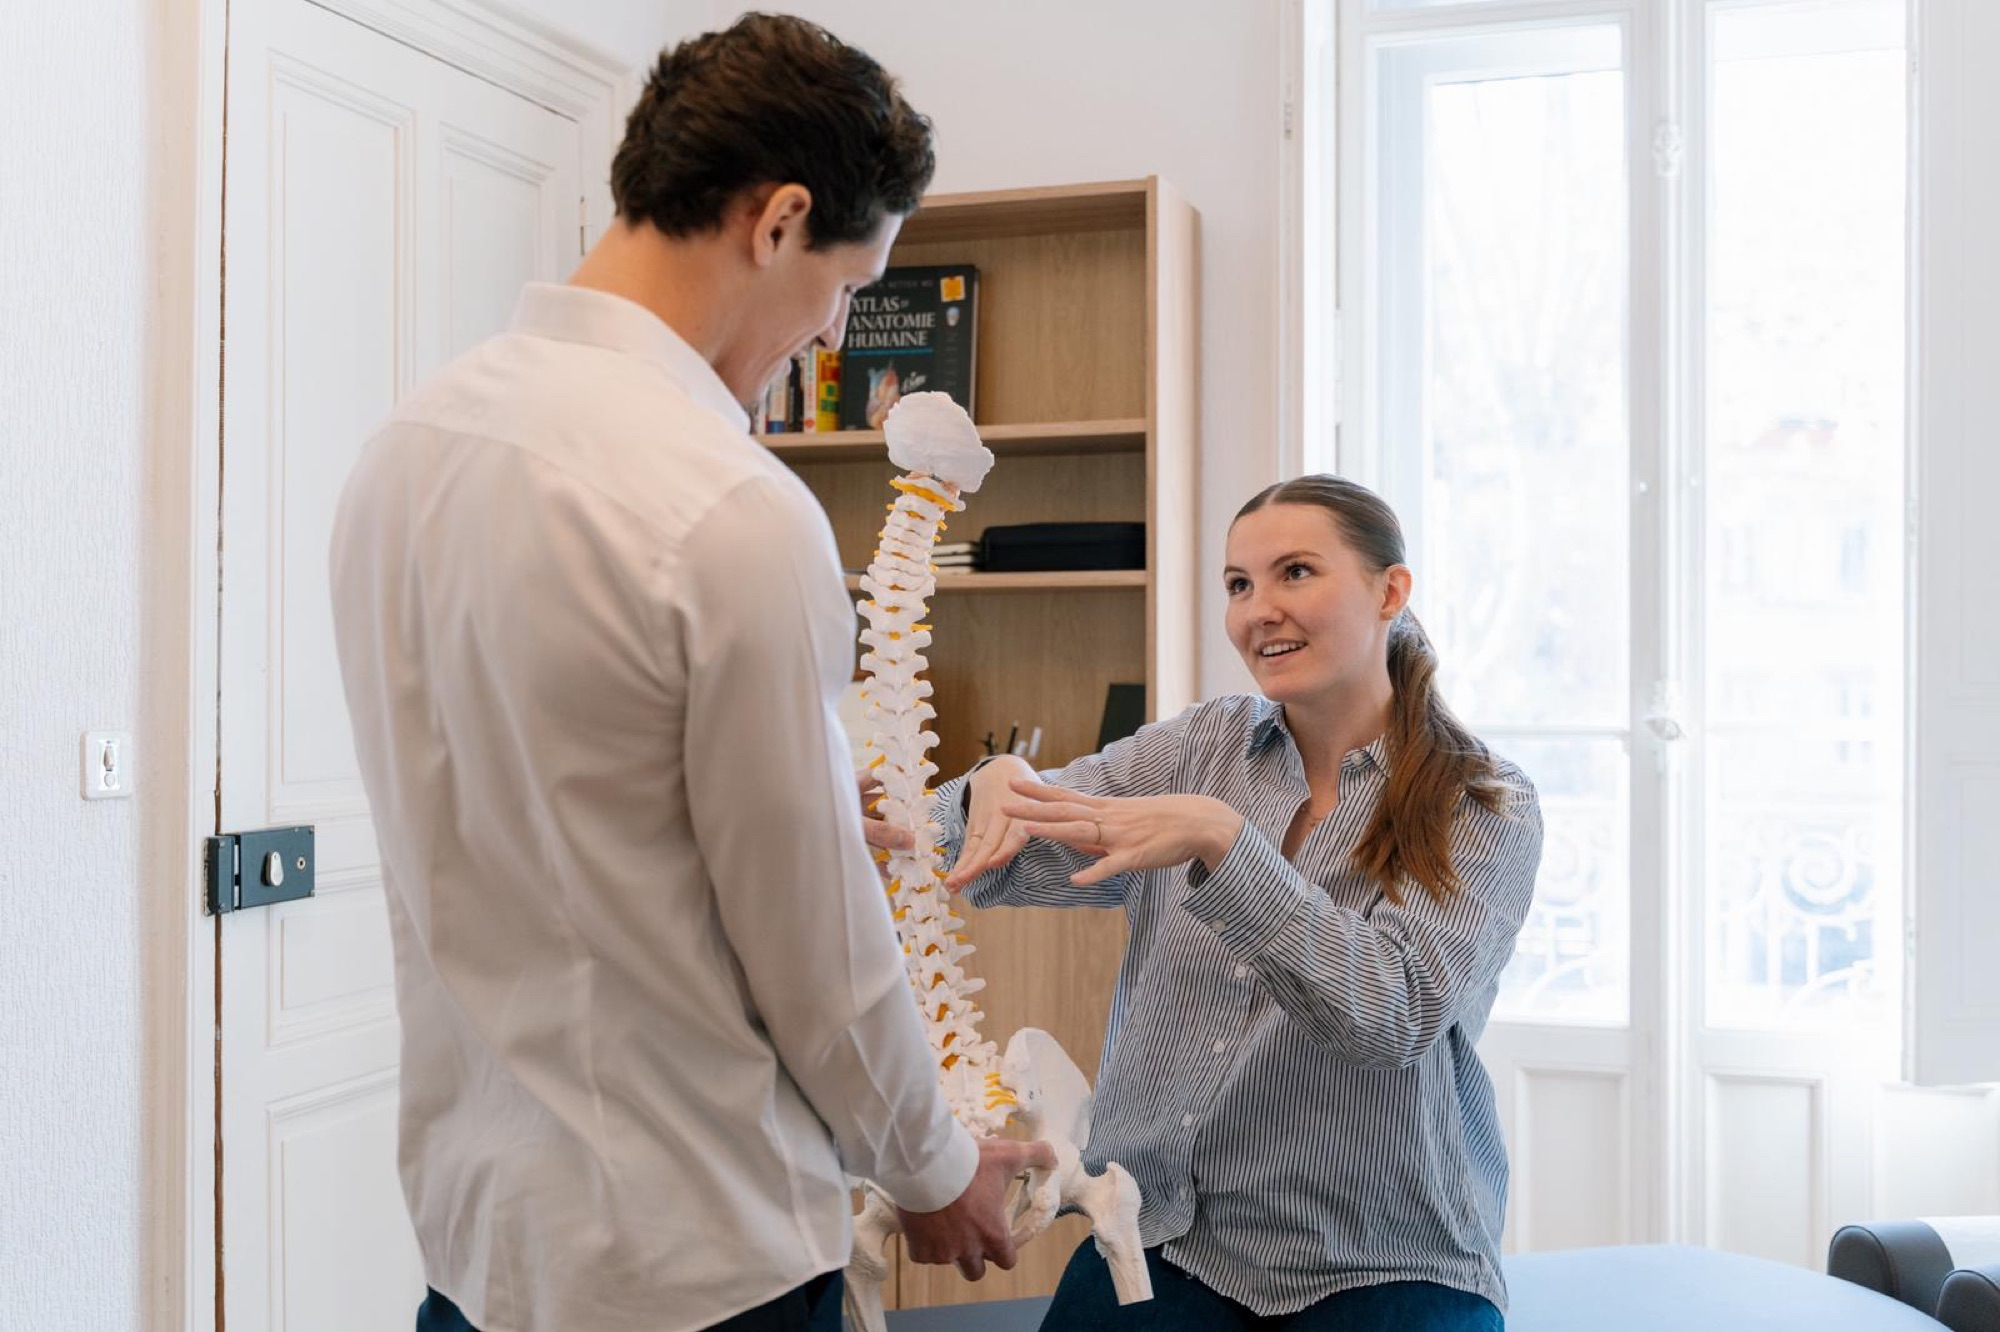
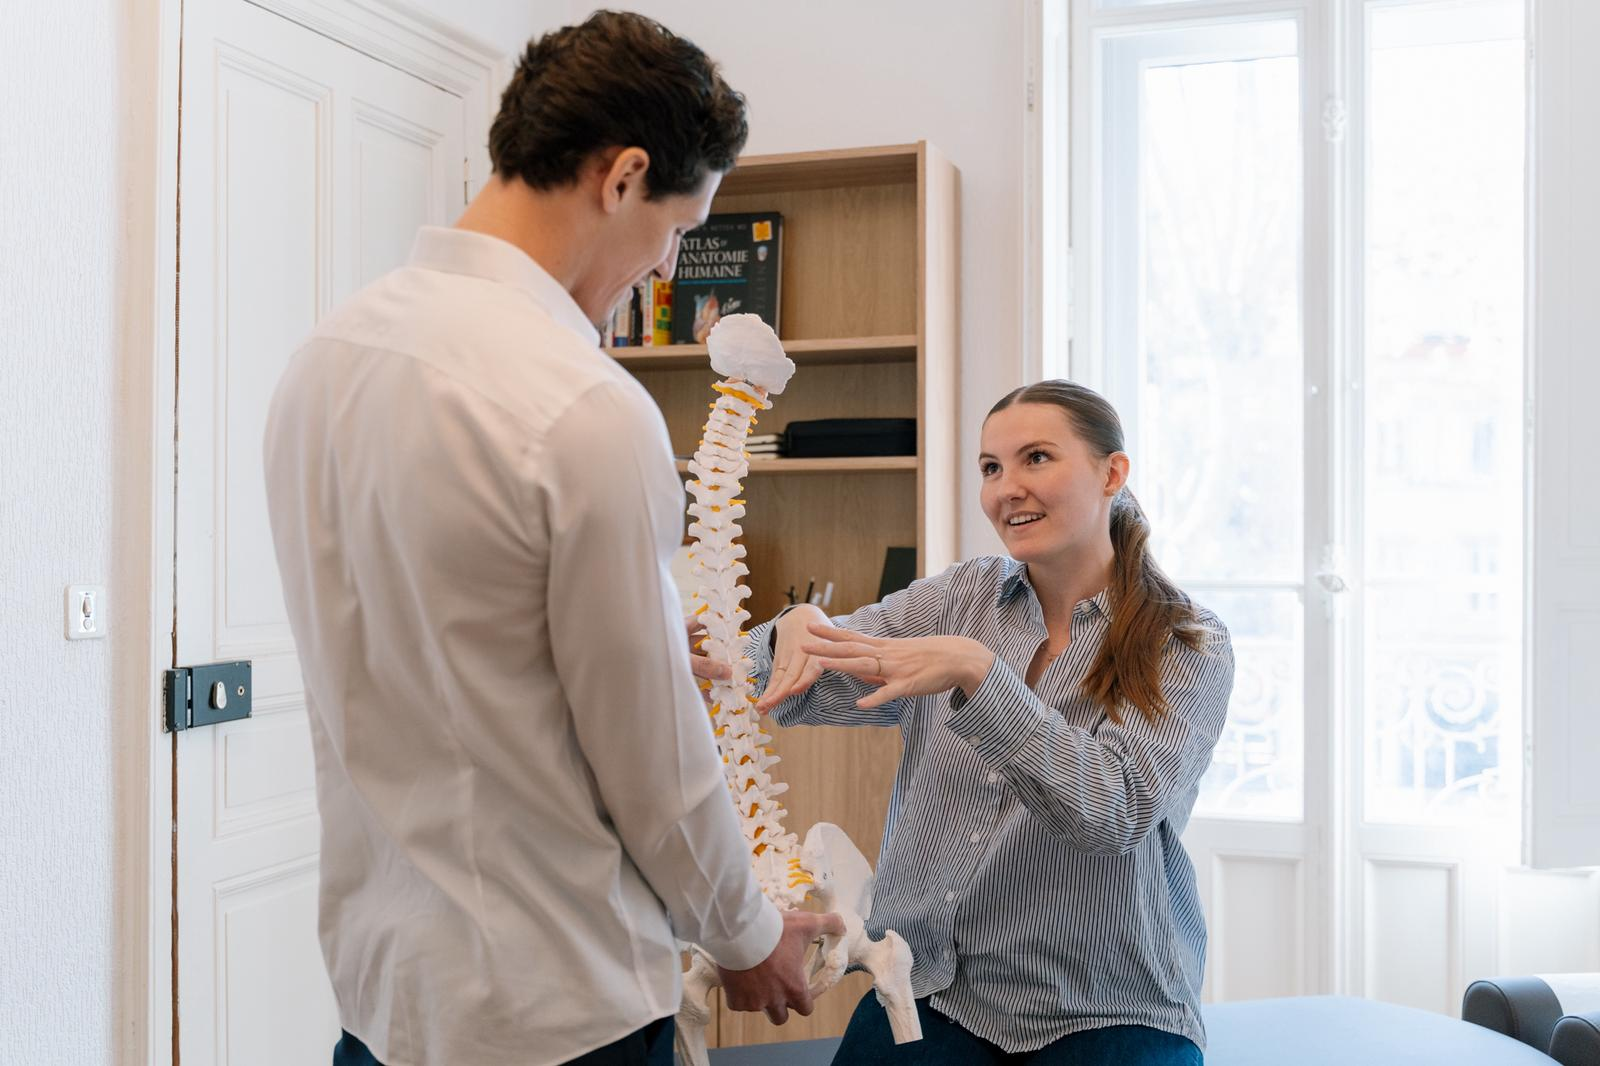
Photos : plus jamais agrandies, ouverture nette sur téléphone, aperçu de partage
- import-photos.py n'agrandit plus les photos (sips -Z le faisait pour
  toutes celles de moins de 2000 px, alors que le commentaire disait le
  contraire). Un JPEG sans métadonnées est copié tel quel ; les variantes
  -800/-1200 ne sont faites que plus étroites et plus légères que la photo.
  Réglage de qualité corrigé : formatOptions 60 (qualité 85 environ) au lieu
  de 80 (environ 93).
- Les 8 photos réimportées depuis les originaux (correspondance vérifiée
  octet pour octet avec l'ancien procédé). Les portraits de 1066 px perdent
  leur -1200 agrandi, a-propos-portrait-1200.jpg (plus lourd que l'original)
  disparaît. Photos du dépôt : 5,3 Mo -> 2,7 Mo. Le recadrage téléphone de
  /bilan/ (accueil-cabinet-mobile*) est inchangé.
- Accueil : l'image d'ouverture annonce sa vraie largeur sur téléphone
  (le cadre est plus haut que large) : le téléphone charge la version
  2000 px au lieu de la 800, nette au lieu d'agrandie 2,4 fois. Rien ne
  change sur ordinateur.
- Accueil, « Mon approche » : les deux photos paysage annoncent leur vraie
  largeur dans le cadre 4/5 (nettes sur écran Retina) ; les trois photos
  cachées passent en priorité basse derrière la photo visible.
- Aperçu de partage par défaut : la salle de soin (img/og-cabinet.jpg,
  1200x630, découpée avec sips) au lieu du logo. /bilan/ garde le sien.
- logo-lockup-white.png et logo-mark.png réencodés sans aucune perte
  (pixels vérifiés identiques) : -4,2 Ko et -2,4 Ko.

Changed region(s): [[0.5625, 0.6191, 0.75, 0.8049], [0.625, 0.5882, 0.6875, 0.6501], [0.5625, 0.5263, 0.625, 0.5882]]

diff --git a/src/pages/index.html b/src/pages/index.html
@@ -11,7 +11,7 @@ body_class: page-home
   <div class="hero__media">
     <img class="hero__img" src="/img/photos/accueil.jpg"
          alt="La salle de soin du cabinet : trois tables de soin, cheminée en marbre, parquet et haute fenêtre haussmannienne"
-         width="2000" height="1333" fetchpriority="high" decoding="async" data-sizes="100vw">
+         width="2000" height="1333" fetchpriority="high" decoding="async" data-sizes="(max-aspect-ratio: 5/4) and (max-height: 928px) 126vh, (max-aspect-ratio: 5/4) 1170px, 100vw">
   </div>
 
   <div class="hero__inner">
@@ -143,18 +143,18 @@ body_class: page-home
           <img class="approche__img is-on" data-pas="0" src="/img/photos/accueil-cabinet.jpg"
                alt="Thomas Nunes ajuste un patient allongé, dans la salle de soin baignée de lumière"
                width="2000" height="1332" loading="lazy" decoding="async"
-               data-sizes="(min-width:900px) 40vw, 100vw">
+               data-sizes="(min-width:1320px) 860px, (min-width:900px) 66vw, 100vw">
           <img class="approche__img" data-pas="1" src="/img/photos/a-propos-examen.jpg"
                alt="Thomas Nunes examine la posture d’une patiente debout, les mains posées sur ses épaules"
-               width="2000" height="1332" loading="lazy" decoding="async"
-               data-sizes="(min-width:900px) 40vw, 100vw">
+               width="2000" height="1332" loading="lazy" fetchpriority="low" decoding="async"
+               data-sizes="(min-width:1320px) 860px, (min-width:900px) 66vw, 100vw">
           <img class="approche__img" data-pas="2" src="/img/photos/chiropratique-ajustement.jpg"
                alt="Thomas Nunes réalise un ajustement cervical précis à un patient allongé"
-               width="1332" height="2000" loading="lazy" decoding="async"
+               width="1332" height="2000" loading="lazy" fetchpriority="low" decoding="async"
                data-sizes="(min-width:900px) 40vw, 100vw">
           <img class="approche__img" data-pas="3" src="/img/photos/a-propos-portrait.jpg"
                alt="Portrait de Thomas Nunes, chiropracteur à Toulouse"
-               width="1333" height="2000" loading="lazy" decoding="async"
+               width="1333" height="2000" loading="lazy" fetchpriority="low" decoding="async"
                data-sizes="(min-width:900px) 40vw, 100vw">
         </div>
       </div>

diff --git a/import-photos.py b/import-photos.py
@@ -5,8 +5,9 @@ Importe les photos du cabinet, quel que soit leur format.
     python3 import-photos.py photos-a-importer
 
 Accepte HEIC (photos iPhone), JPEG, PNG, TIFF, WebP. Chaque fichier est
-converti en JPEG, redimensionné, et enregistré à l'emplacement du site qui
-lui correspond, avec ses variantes pour petits écrans.
+converti en JPEG, réduit s'il dépasse 2000 px (jamais agrandi), et
+enregistré à l'emplacement du site qui lui correspond, avec ses variantes
+pour petits écrans.
 
 Le classement se fait sur le NOM du fichier : une photo dont le nom contient
 « portrait » va à l'emplacement portrait, « salle » ou « cabinet » à la vue
@@ -20,13 +21,18 @@ Pour forcer un emplacement précis :
 N'utilise que `sips`, fourni avec macOS. Rien à installer.
 """
 import os
+import shutil
 import subprocess
 import sys
 
 RACINE = os.path.dirname(os.path.abspath(__file__))
 DEST = os.path.join(RACINE, "static", "img", "photos")
 MAX_EDGE = 2000
-QUALITY = 80
+# Attention, sips a sa propre échelle : « formatOptions 60 » donne un JPEG de
+# qualité 85 environ (lue dans les tables de quantification du fichier).
+# L'ancien réglage de 80 donnait une qualité 93 environ : des fichiers
+# presque moitié plus lourds, pour une différence invisible à l'œil.
+QUALITY = 60
 TARGET_BYTES = 450 * 1024
 LARGEURS = (800, 1200)
 
@@ -78,9 +84,19 @@ EXTS = {".jpg", ".jpeg", ".png", ".heic", ".heif", ".tif", ".tiff", ".webp"}
 
 
 def _sips(src, dest, edge, quality, mode="fit"):
-    """mode 'fit'   : contraint le plus grand côté (plafond général)
-       mode 'width' : contraint la largeur — c'est ce qu'attend srcset."""
-    dimension = ["-Z", str(edge)] if mode == "fit" else ["--resampleWidth", str(edge)]
+    """mode 'fit'   : réduit le plus grand côté à `edge`
+       mode 'width' : réduit la largeur à `edge` — c'est ce qu'attend srcset
+       edge None    : garde la taille, ne fait que convertir en JPEG.
+
+    Attention : « sips -Z » et « --resampleWidth » AGRANDISSENT une image plus
+    petite que la cible. Les appels ci-dessous ne les utilisent donc que pour
+    réduire (voir convert)."""
+    if edge is None:
+        dimension = []
+    elif mode == "fit":
+        dimension = ["-Z", str(edge)]
+    else:
+        dimension = ["--resampleWidth", str(edge)]
     subprocess.run(
         ["sips"] + dimension +
         ["-s", "format", "jpeg", "-s", "formatOptions", str(quality),
@@ -90,37 +106,87 @@ def _sips(src, dest, edge, quality, mode="fit"):
     return os.path.getsize(dest)
 
 
-def _largeur(chemin):
-    r = subprocess.run(["sips", "-g", "pixelWidth", chemin],
+def _dimensions(chemin):
+    """(largeur, hauteur) en pixels, lues par sips."""
+    r = subprocess.run(["sips", "-g", "pixelWidth", "-g", "pixelHeight", chemin],
                        capture_output=True, text=True)
+    valeurs = {}
     for ligne in r.stdout.split("\n"):
-        if "pixelWidth" in ligne:
-            return int(ligne.split(":")[1])
-    return None
+        if ":" in ligne and ligne.strip().startswith("pixel"):
+            cle, val = ligne.split(":", 1)
+            valeurs[cle.strip()] = int(val)
+    return valeurs.get("pixelWidth"), valeurs.get("pixelHeight")
+
+
+def _jpeg_sans_metadonnees(chemin):
+    """Vrai pour un JPEG qui ne porte ni EXIF, ni XMP, ni IPTC, ni commentaire.
+
+    Ces blocs peuvent contenir la position GPS, la date ou l'appareil : on ne
+    copie donc tel quel qu'un JPEG qui n'en a pas, ce qui évite toute perte.
+    Les autres passent par sips, comme avant. Seuls sont admis JFIF (APP0),
+    le profil de couleur (APP2) et Adobe (APP14).
+    """
+    try:
+        with open(chemin, "rb") as f:
+            d = f.read()
+    except OSError:
+        return False
+    if d[:2] != b"\xff\xd8":
+        return False
+    pos = 2
+    while pos + 4 <= len(d) and d[pos] == 0xFF:
+        marqueur = d[pos + 1]
+        if marqueur == 0xDA:                 # début des données de l'image
+            return True
+        if marqueur == 0xFE or (0xE0 <= marqueur <= 0xEF
+                                and marqueur not in (0xE0, 0xE2, 0xEE)):
+            return False
+        pos += 2 + int.from_bytes(d[pos + 2:pos + 4], "big")
+    return False
 
 
 def convert(src, dest):
     """Convertit en JPEG web, puis produit les variantes pour petits écrans.
 
-    On vise 2000 px et une qualité de 80. Si le fichier dépasse ~450 Ko, on
-    redescend la qualité : une page qui s'affiche vite compte plus que 2 %
-    de finesse. On n'agrandit jamais une image — cela n'ajoute aucun détail.
+    On n'agrandit jamais une image : cela n'ajoute aucun détail, seulement
+    du poids. Une photo plus grande que 2000 px est réduite à 2000 px ; une
+    photo plus petite garde sa taille. Si c'est déjà un JPEG sans
+    métadonnées, il est copié tel quel : le réencoder ne ferait que perdre
+    un peu de finesse.
+
+    Si le fichier dépasse ~450 Ko, on redescend la qualité : une page qui
+    s'affiche vite compte plus que 2 % de finesse.
     """
-    taille = _sips(src, dest, MAX_EDGE, QUALITY)
-    for quality in (72, 64, 56):
+    largeur_src, hauteur_src = _dimensions(src)
+    if not largeur_src or not hauteur_src:
+        sys.exit("Image illisible : " + src)
+    trop_grande = max(largeur_src, hauteur_src) > MAX_EDGE
+    edge = MAX_EDGE if trop_grande else None
+
+    if not trop_grande and _jpeg_sans_metadonnees(src):
+        shutil.copyfile(src, dest)
+        taille = os.path.getsize(dest)
+        if taille > TARGET_BYTES:
+            taille = _sips(src, dest, edge, QUALITY)
+    else:
+        taille = _sips(src, dest, edge, QUALITY)
+    for quality in (55, 50, 45):
         if taille <= TARGET_BYTES:
             break
-        taille = _sips(src, dest, MAX_EDGE, quality)
+        taille = _sips(src, dest, edge, quality)
 
+    # Variantes : seulement plus étroites que la photo, et seulement si elles
+    # pèsent moins qu'elle. Sinon le navigateur prendrait autant de poids
+    # pour moins de détail ; une ancienne variante devenue inutile est effacée.
     base, ext = os.path.splitext(dest)
-    large = _largeur(dest)
+    large, _haut = _dimensions(dest)
     for largeur in LARGEURS:
         variante = "%s-%d%s" % (base, largeur, ext)
-        if large and largeur >= large:
-            if os.path.exists(variante):
-                os.remove(variante)
-            continue
-        _sips(dest, variante, largeur, 78, mode="width")
+        if large and largeur < large:
+            if _sips(dest, variante, largeur, QUALITY, mode="width") < taille:
+                continue
+        if os.path.exists(variante):
+            os.remove(variante)
     return taille, large
 
 

diff --git a/build.py b/build.py
@@ -109,10 +109,18 @@ def build_page(path, layout=None):
     slug = meta.get("slug", "")
     url = SITE + ("/" + slug + "/" if slug else "/")
     canonical = "/" + slug + "/" if slug else "/"
-    # Carte de partage : le logo sur fond papier, générée par tools/make-og.py.
+    # Carte de partage (lien envoyé sur WhatsApp, Messenger, par SMS…) : la
+    # salle de soin, img/og-cabinet.jpg, 1200×630 comme l'annonce layout.html.
+    # Elle a été découpée dans photos/accueil.jpg, cadrée comme l'ouverture de
+    # l'accueil sur ordinateur :
+    #   sips --cropToHeightWidth 1050 2000 --cropOffset 90 0 -s format bmp \
+    #        static/img/photos/accueil.jpg --out /tmp/og.bmp
+    #   sips --resampleHeightWidth 630 1200 -s format jpeg \
+    #        -s formatOptions 70 /tmp/og.bmp --out static/img/og-cabinet.jpg
     # Une page peut la remplacer avec « og_image: photos/xxx.jpg » dans son
-    # en-tête — à faire quand les vraies photos seront en place.
-    og_image = SITE + "/img/" + meta.get("og_image", "og.png")
+    # en-tête (c'est le cas de /bilan/). L'ancienne carte, le logo sur fond
+    # papier (img/og.png, tools/make-og.py), reste en réserve.
+    og_image = SITE + "/img/" + meta.get("og_image", "og-cabinet.jpg")
 
     out = layout
     repl = {

diff --git a/static/img/photos/LES-PHOTOS.md b/static/img/photos/LES-PHOTOS.md
@@ -12,7 +12,17 @@
 | `a-propos-examen.jpg` | À propos, « Ce que vous trouverez au cabinet » | examen postural debout |
 
 Les fichiers `-800` et `-1200` sont les versions pour petits écrans,
-fabriquées automatiquement par `import-photos.py`.
+fabriquées automatiquement par `import-photos.py`. Une photo n'est jamais
+agrandie : une variante n'existe que si elle est plus étroite et plus légère
+que la photo elle-même (les portraits de 1066 px de large n'ont donc pas de
+`-1200`).
+
+`accueil-cabinet-mobile.jpg` et `accueil-cabinet-mobile-800.jpg` sont un
+recadrage vertical fait à part, pour l'ouverture de la page de publicité sur
+téléphone : le script ne les refait pas.
+
+L'aperçu affiché quand on partage un lien du site (`static/img/og-cabinet.jpg`,
+1200×630) est découpé dans `accueil.jpg` ; la commande est notée dans `build.py`.
 
 Les portraits sont affichés dans leurs proportions d'origine sur les pages
 intérieures. Sur l'accueil, les cadres recadrent l'image : garder le sujet
